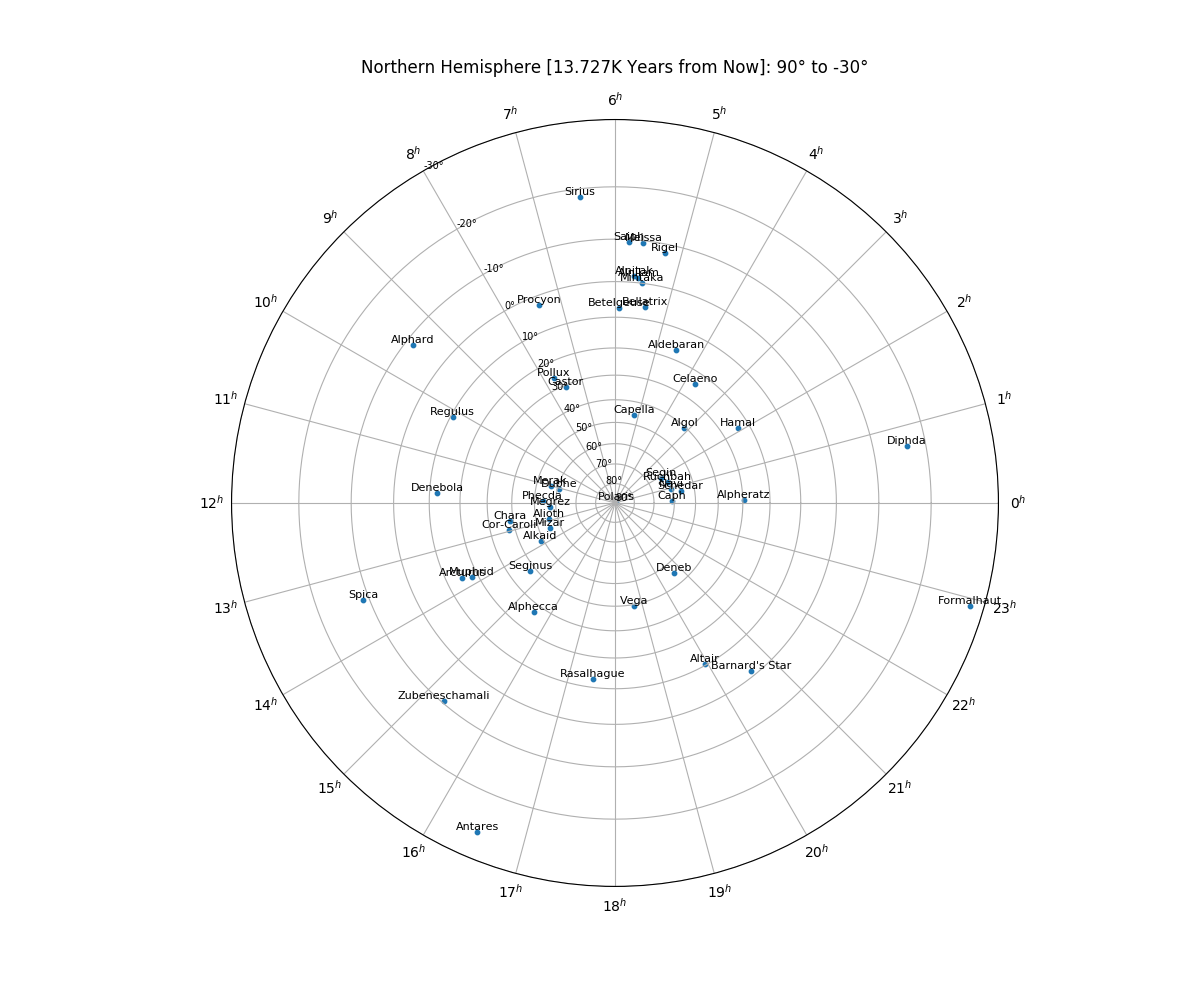
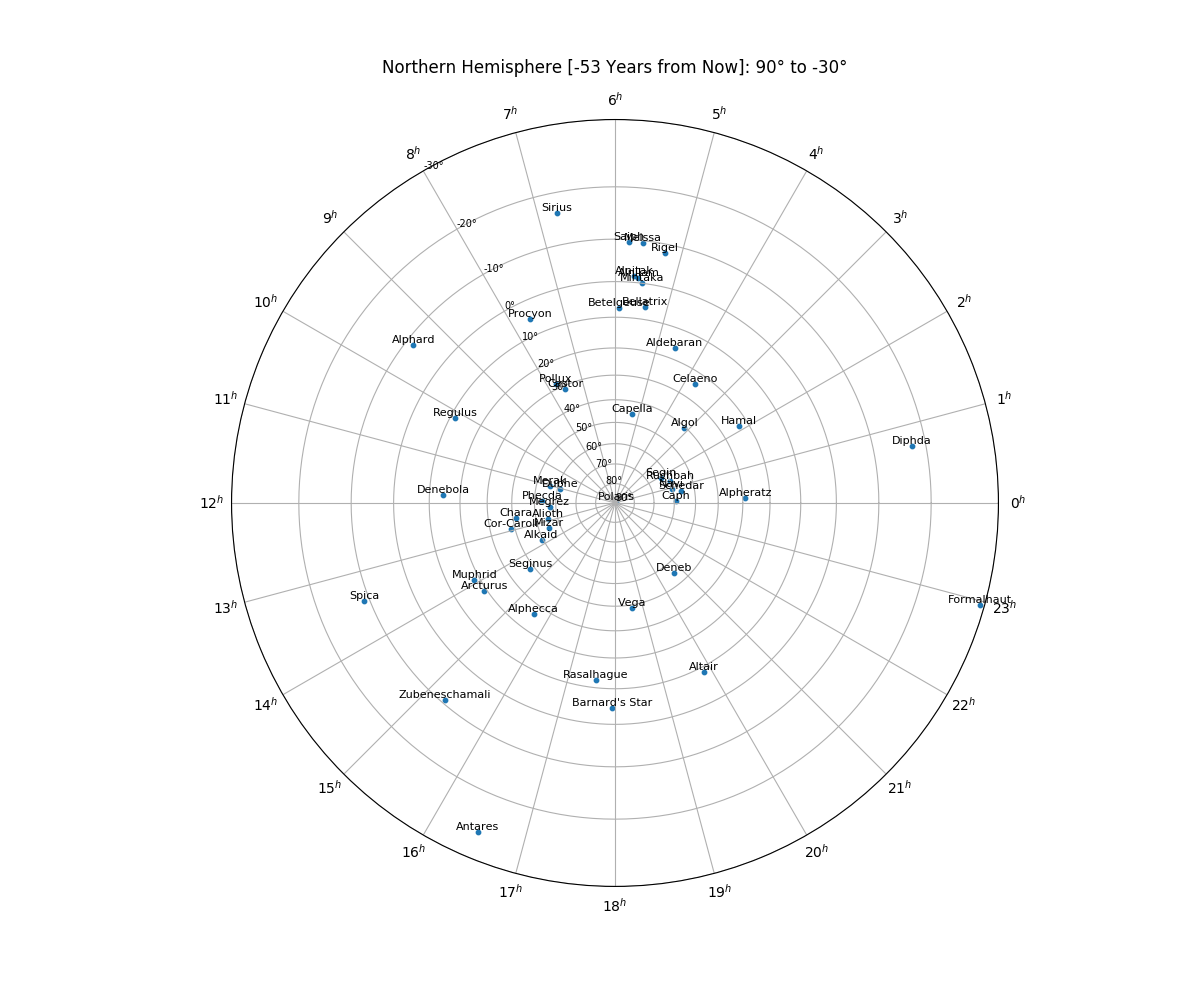
set chart to 1969

diff --git a/page_x_astrolabe/generate_star_chart.py b/page_x_astrolabe/generate_star_chart.py
@@ -367,7 +367,7 @@ if __name__ == '__main__':
 	northOrSouth = "Both" # options: "North", "South", "Both" (changes the declination range)
 	total_ruler_length = 30 # units (cut in half for each side of the ruler) (currently has to be even)
 	increment_by = 10 # increment degrees by 1, 5, 10)
-	year_of_plate_YYYY = 2022 + 13727 # B.C.E or written as: 2022 - 150 # years
+	year_of_plate_YYYY = 1969 # B.C.E or written as: 2022 - 150 # years
 
 	# Verify Hemisphere within valid range
 	if northOrSouth not in ["Both", "North", "South"]:
